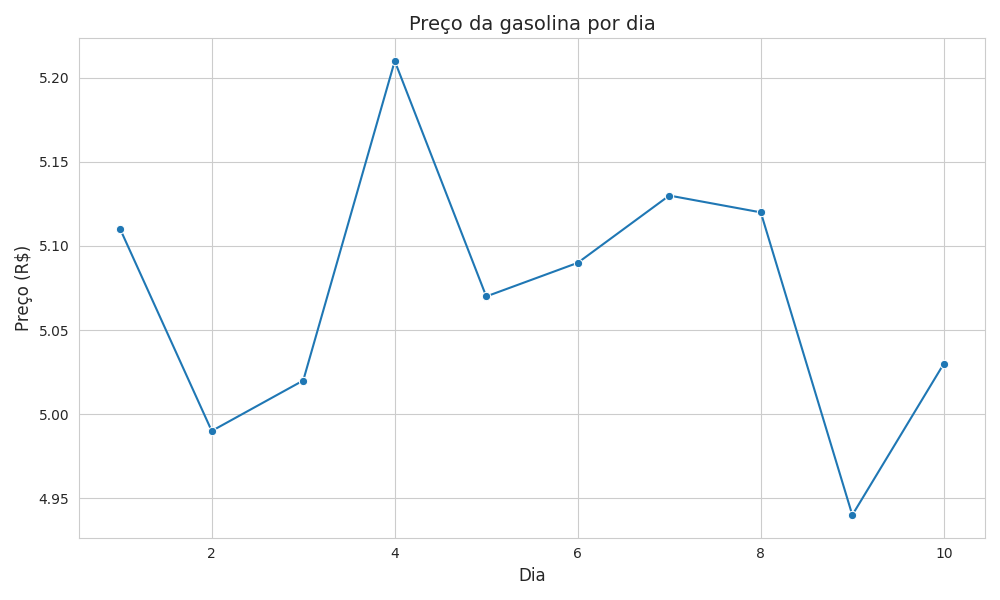
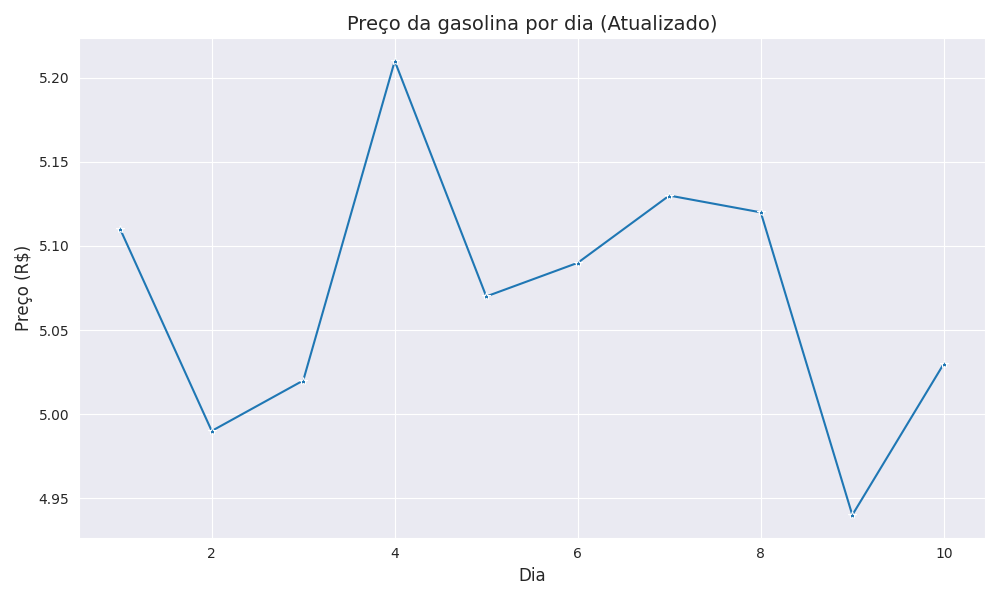
Atualizado gráfico para versão Darkgrid

Changed region(s): [[0.341, 0.03, 0.713, 0.06], [0.186, 0.69, 0.217, 0.72]]

diff --git a/gasolina.py b/gasolina.py
@@ -4,26 +4,26 @@ import pandas as pd
 import matplotlib.pyplot as plt
 import seaborn as sns
 
-#carregar os dados do arquivo CSV
+# carregar os dados do arquivo CSV
 df = pd.read_csv('gasolina.csv')
 
-#configurar o estilo do gráfico
-sns.set_style('whitegrid')
+# configurar o estilo do gráfico
+sns.set_style('darkgrid')#alterei o estilo de 'whitegrid' para 'darkgrid'
 
-#criar a figura do gráfico
+# criar a figura do gráfico
 plt.figure(figsize=(10, 6))
 
-#gerar o gráfico de linha
-sns.lineplot(x='dia', y='venda', data=df, marker='o')
+# gerar o gráfico de linha
+sns.lineplot(x='dia', y='venda', data=df, marker='*')#alterei 'o' por '*'
 
-#configurar o título e os rótulos
-plt.title('Preço da gasolina por dia', fontsize=14)
+# configurar o título e os rótulos
+plt.title('Preço da gasolina por dia atualizado', fontsize=14)
 plt.xlabel('Dia', fontsize=12)
 plt.ylabel('Preço (R$)', fontsize=12)
 
-#ajustar o layout para melhor visualização
+# ajustar o layout para melhor visualização
 plt.tight_layout()
 
-#salva o gráfico como uma imagem PNG
+# salva o gráfico como uma imagem PNG
 plt.savefig('gasolina.png')
 plt.show()
